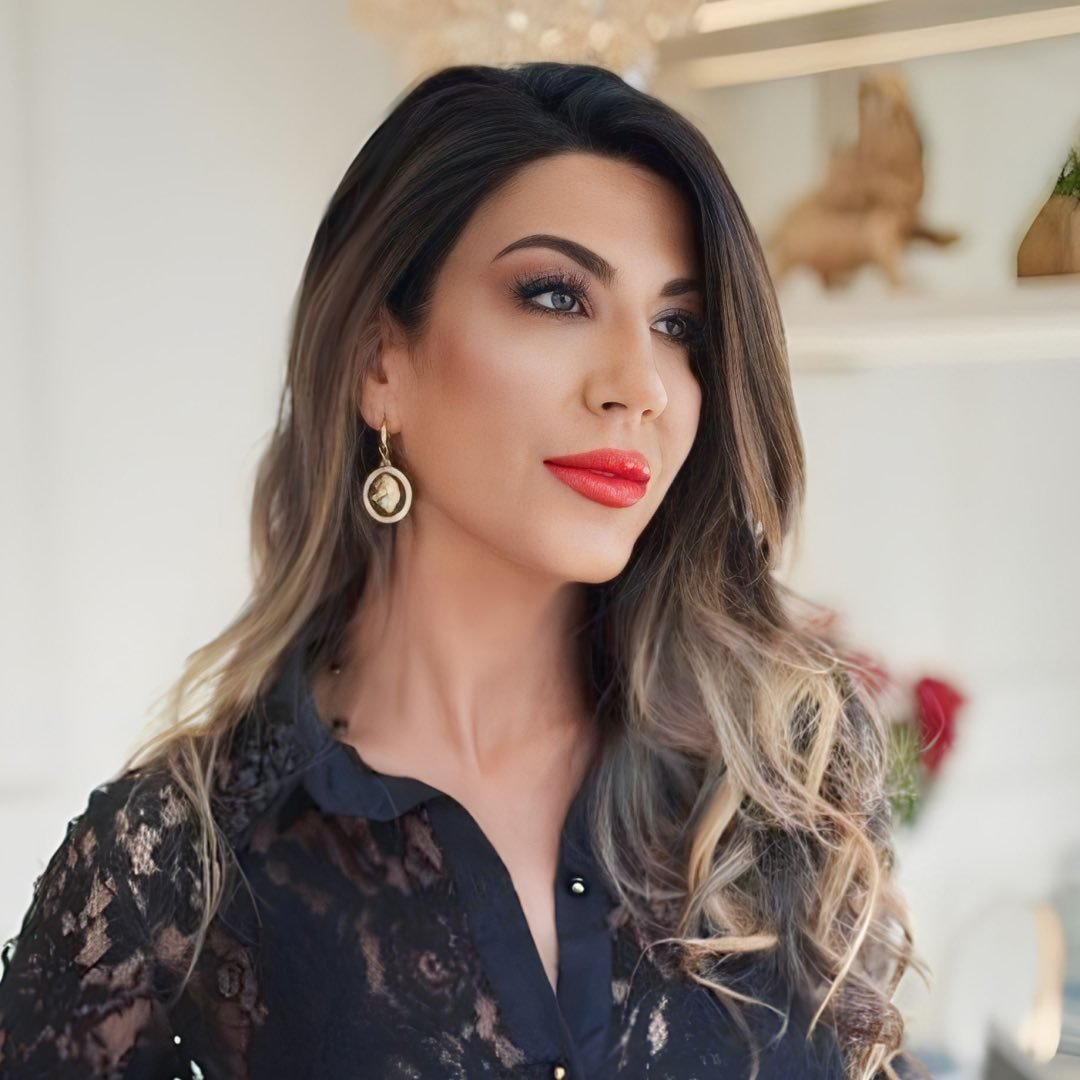
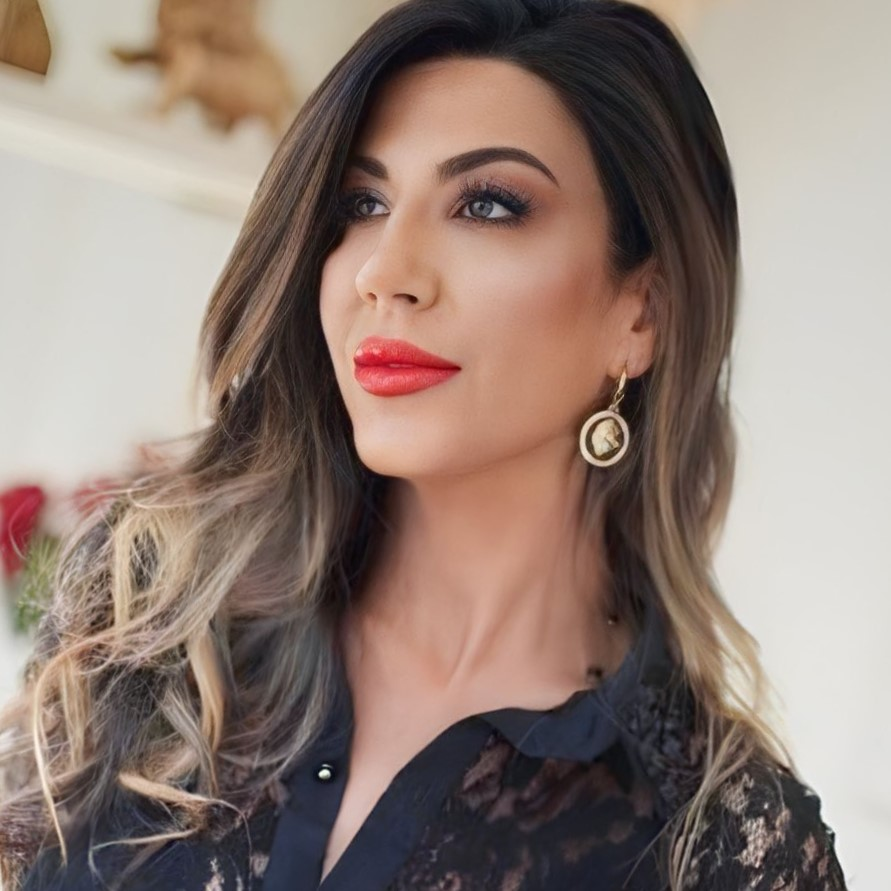
alterando versão desktop

diff --git a/index.html b/index.html
@@ -153,27 +153,9 @@
           </div>
         </div>
       </div>
-      <div class="aReviva" id="aClinica">
-        <h1>CONHEÇA A REVIVA</h1>
-        <p>
-          Nossa missão é proporcionar a você uma experiência única, aliando
-          tratamentos de ponta a um ambiente de total conforto e privacidade.
-          Cada detalhe foi cuidadosamente pensado para criar um espaço acolhedor
-          e sofisticado, onde você se sentirá verdadeiramente especial. Agende
-          sua consulta e venha nos visitar.
-        </p>
-        <div class="galeria">
-          <div class="galeriaImg"><img src="/img/galeria.jpg" /></div>
-          <div class="galeriaImg"><img src="/img/galeria6.jpg" /></div>
-          <div class="galeriaImg"><img src="/img/galeria1.jpg" /></div>
-          <div class="galeriaImg"><img src="/img/galeria4.jpg" /></div>
-          <div class="galeriaImg"><img src="/img/galeria3.jpg" /></div>
-          <div class="galeriaImg"><img src="/img/galeria5.jpg" /></div>
-        </div>
-      </div>
-      <div id="Contato">
-        <div class="informacoesContato">
-          <img src="/img/logoSimplesSemFundo.png" />
+      <div class="sobreRenata">
+        <img src="img/fotoRenata4.jpg" alt="">
+        <div class="sobreContent">
           <h1>Dra Renata Vargas</h1>
           <h3>
             COREN/RS - Enfermeira 0507627 <br />
@@ -184,6 +166,30 @@
             Em um ambiente acolhedor, reservado e pensado nos mínimos detalhes
             para te receber com toda a atenção e carinho que você merece.
           </p>
+        </div>
+      </div>
+      <div id="Contato">
+        <div class="informacoesContato">
+          <div class="aReviva" id="aClinica">
+            <img src="/img/logoSimplesSemFundo.png" />
+            <h1>A REVIVA</h1>
+            <p>
+              Nossa missão é proporcionar a você uma experiência única, aliando
+              tratamentos de ponta a um ambiente de total conforto e privacidade.
+              Cada detalhe foi cuidadosamente pensado para criar um espaço acolhedor
+              e sofisticado, onde você se sentirá verdadeiramente especial. Agende
+              sua consulta e venha nos visitar.
+            </p>
+            <div class="galeria">
+              <div class="galeriaImg"><img src="/img/galeria.jpg" /></div>
+              <div class="galeriaImg"><img src="/img/galeria6.jpg" /></div>
+              <div class="galeriaImg"><img src="/img/galeria1.jpg" /></div>
+              <div class="galeriaImg"><img src="/img/galeria4.jpg" /></div>
+              <div class="galeriaImg"><img src="/img/galeria3.jpg" /></div>
+              <div class="galeriaImg"><img src="/img/galeria5.jpg" /></div>
+            </div>
+          </div>
+          
           <div class="botaoContatos">
             <button class="marqueSuaConsulta">
               <a

diff --git a/style.css b/style.css
@@ -232,28 +232,31 @@ input:checked ~ .menu .ph-x {
   margin-bottom: 50px;
 }
 /* -----------------------------A REVIVA------------------------------ */
-.aReviva {
-  background-color: var(--força);
+/* .aReviva {
   color: var(--beleza2);
   display: flex;
   flex-direction: column;
   align-items: center;
-  padding: 36px;
+} */
+.aReviva h1{
+  padding: 20px;
+  text-align: justify;
 }
 .aReviva p {
-  width: 100%;
+  width: 80%;
   text-align: justify;
   font-size: 1.25rem;
   padding: 20px;
 }
 .galeria {
-  width: 90%;
   height: 500px;
   display: flex;
   flex-wrap: wrap;
+  justify-content: center;
   gap: 10px;
   overflow: hidden;
   flex-shrink: 1;
+  margin: 26px 0;
 }
 .galeriaImg {
   width: 30%;
@@ -274,6 +277,28 @@ input:checked ~ .menu .ph-x {
 .galeriaImg img:hover {
   transform: scale(1);
 }
+.sobreRenata{
+  height: 100vh;
+  background-color: var(--força);
+  padding: 0 20%;
+}
+.sobreRenata img{
+  height: 100%;
+  position: absolute;
+  right: 0;
+}
+/* Estilos de formatação do P, e titulos junto com informações de contato */
+.fotoRenata{
+  height: 90vh;
+}
+.sobreContent{
+  padding: 20px;
+  display: flex;
+  flex-direction: column;
+  align-items: center;
+  text-align: justify;
+}
+
 /* ----------------------------CONTATO------------------------------------ */
 #Contato {
   display: flex;
@@ -286,29 +311,25 @@ input:checked ~ .menu .ph-x {
     #f4edcf 33%,
     #f6f2e4 64%
   );
-  /* #e9d488 0%,
-    #f7f3e3 33%,
-    #f7f5ef 33%, */
 }
-.informacoesContato > img {
+.aReviva > img {
   height: 100px;
   width: 100px;
   margin: 0 auto;
 }
-.informacoesContato {
-  padding: 30px;
+.aReviva, .informacoesContato, .sobreRenata p{
+  padding: 20px;
   display: flex;
   flex-direction: column;
   align-items: center;
   text-align: justify;
-  gap: 15px;
   color: #a55974;
 }
-.informacoesContato > h1{
+.informacoesContato, .sobreRenata h1{
   text-align: center;
   animation: none;
 }
-.informacoesContato > h3 {
+.informacoesContato, .sobreRenata > h3 {
   font-weight: 100;
   font-size: 1rem;
   text-align: center;
@@ -318,7 +339,6 @@ input:checked ~ .menu .ph-x {
   line-height: 1.5rem;
   font-size: 1.25rem;
 }
-
 .informacoesGoogleMaps iframe{
   height: 350px;
   width: 100%;
@@ -326,6 +346,7 @@ input:checked ~ .menu .ph-x {
 .botaoContatos{
   display: flex;
   flex-direction: column;
+  align-items: center;
   gap: 30px;
   padding: 30px 0;
 }
